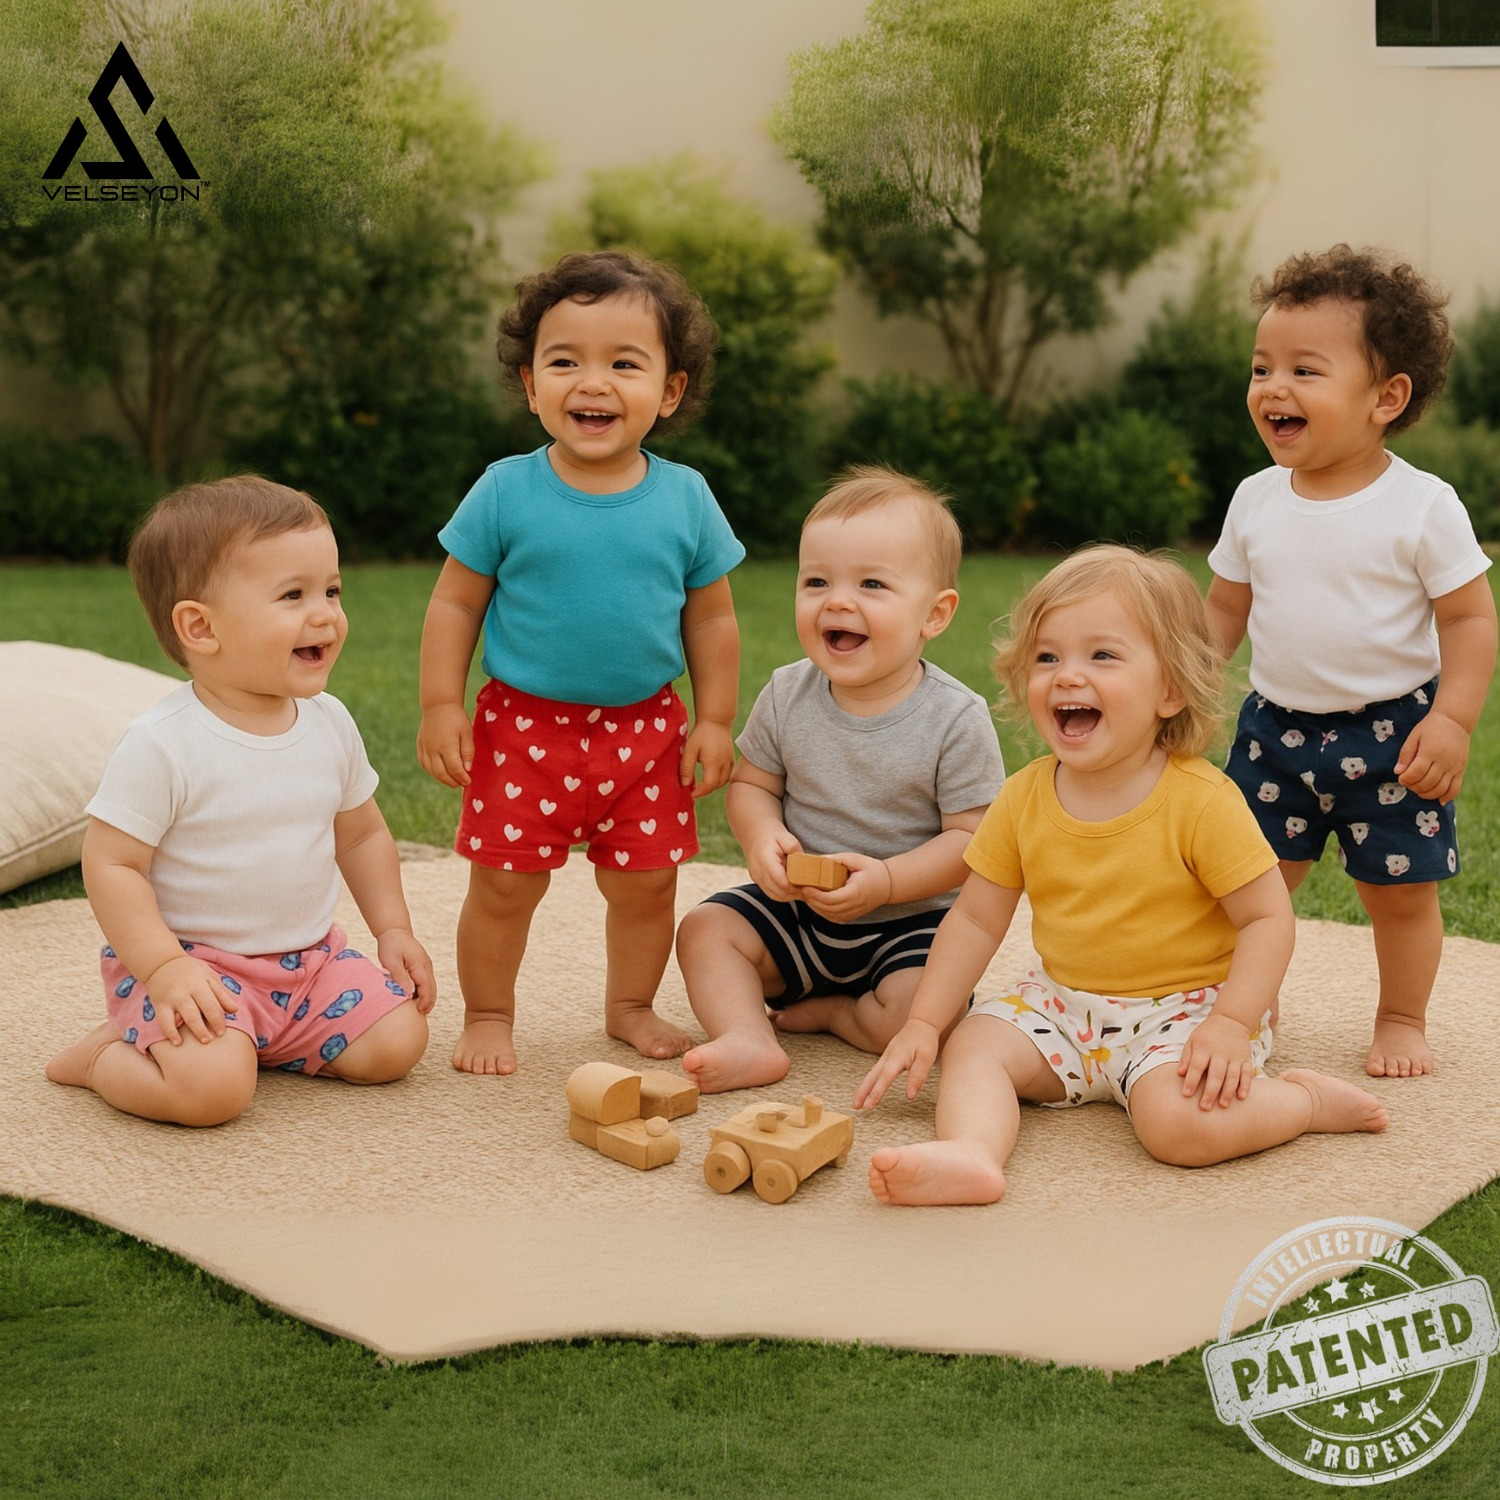
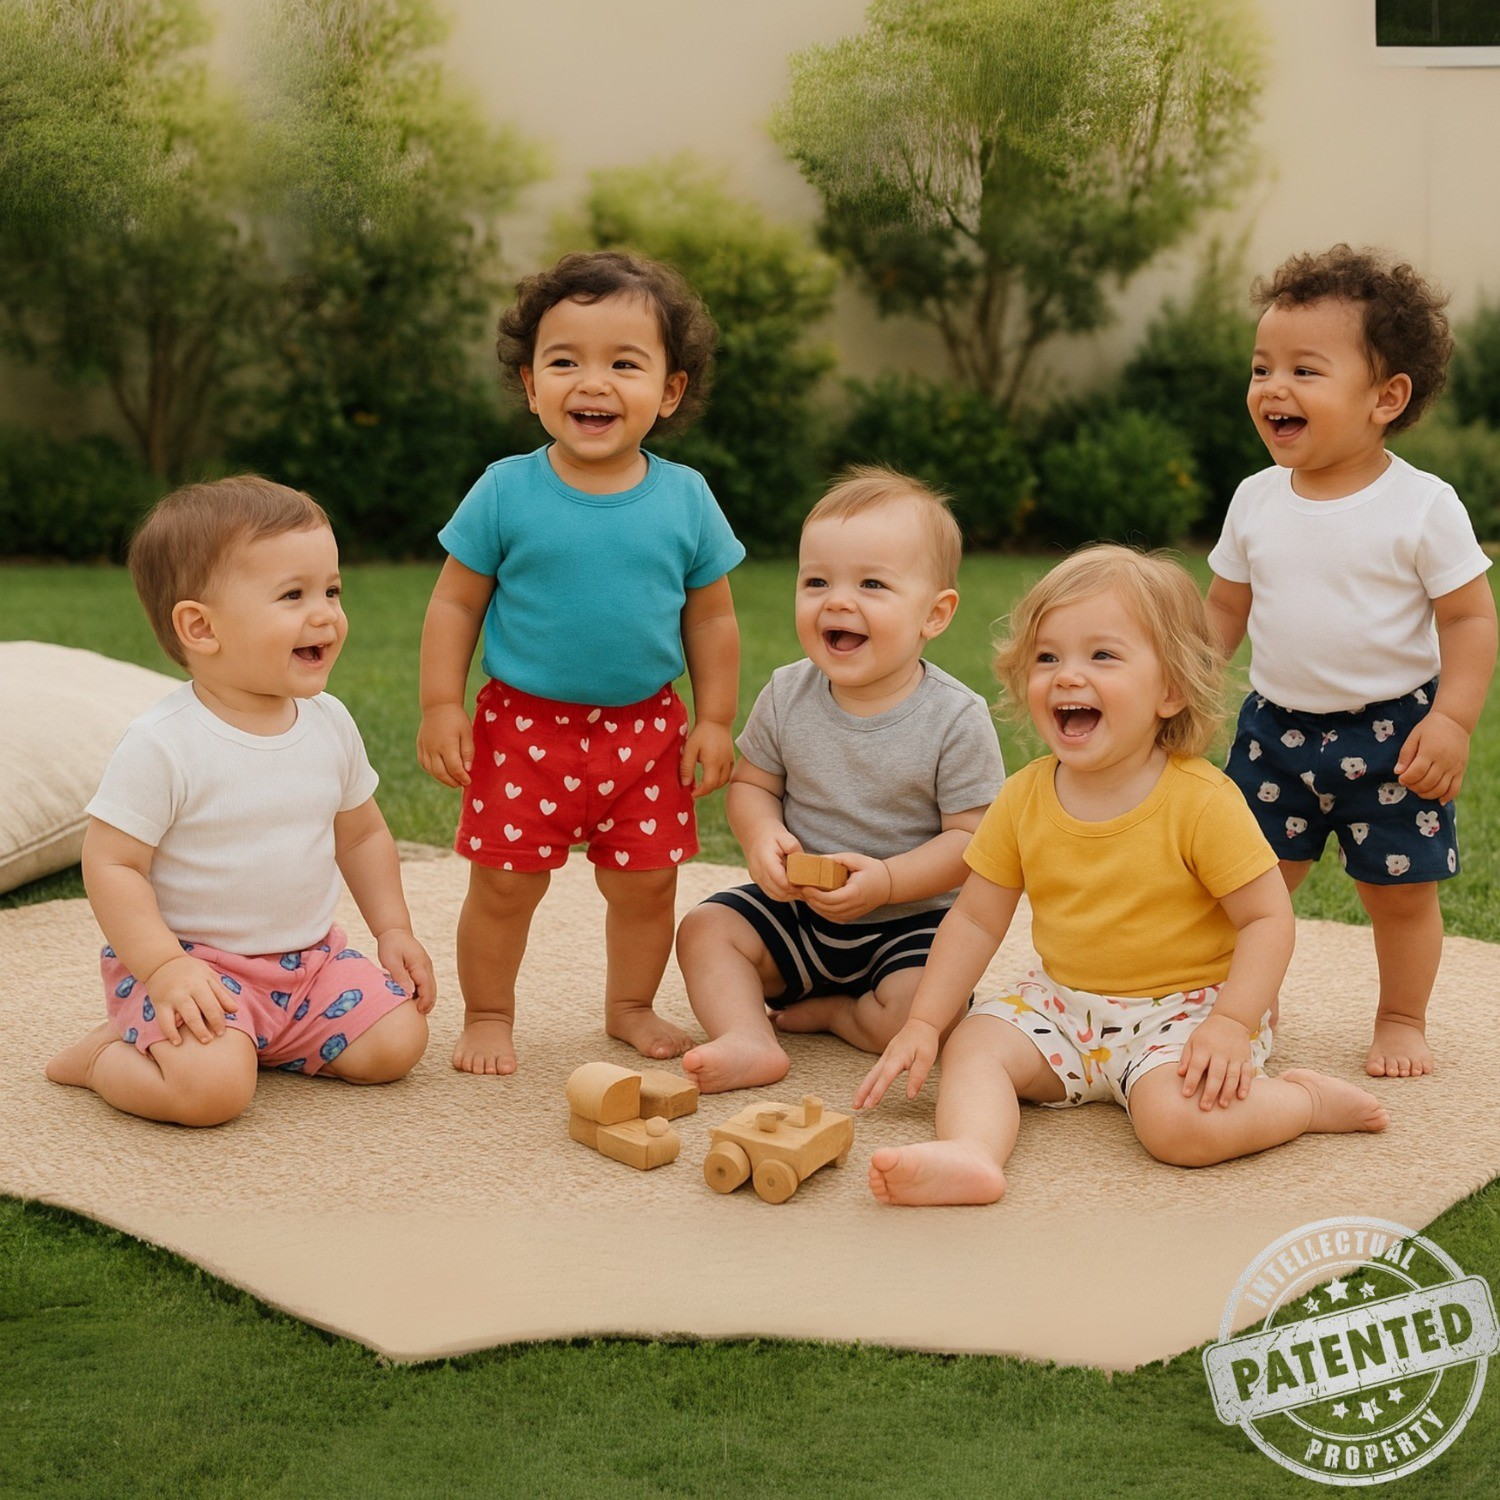
Update homepage background and product image

Changed region(s): [[0.0, 0.0, 0.2147, 0.2147]]

diff --git a/HOME PAGE.html b/HOME PAGE.html
@@ -15,7 +15,7 @@
                 <img src="Photos/VELSEYON Logo.png" alt="VELSEYON Logo">
             </a>
             <ul>
-                <li><a href="#home" class="active">Home</a></li>
+                <li><a href="#home"class="active">Home</a></li>
                 <li><a href="#shop">Shop</a></li>
                 <li><a href="#about">About</a></li>
                 <li><a href="#contact">Contact</a></li>
@@ -42,7 +42,7 @@
             <section class="product-grid" aria-label="Products">
                 <article class="product-card" data-product-card>
                     <div class="product-gallery" data-gallery>
-                        <img class="product-image is-active" src="Photos/baby shorts 2.jpeg" alt="Baby Shorts 2" loading="lazy">
+                        <img class="product-image is-active" src="Photos/baby shorts 1.jpeg" alt="Baby Shorts 1" loading="lazy">
                         <img class="product-image" src="Photos/baby shorts 3.jpeg" alt="Baby Shorts 3 style view" loading="lazy">
                         <img class="product-image" src="Photos/baby shorts 4.jpeg" alt="Baby Shorts 4 style view" loading="lazy">
                         <button class="gallery-arrow gallery-prev" type="button" data-gallery-prev aria-label="Previous Baby Shorts 2 photo">‹</button>

diff --git a/STYLE.css b/STYLE.css
@@ -51,9 +51,10 @@ body.page-exit {
     }
 }
 body.home-page {
-    background-image: url("Photos/dress.jpg");
-    background-size: cover;
-    background-position: center;
+    background-color: #a8b88d;
+    background-image: linear-gradient(rgba(255, 250, 246, .15), rgba(255, 250, 246, .22)), url("Photos/baby shorts 1.jpeg");
+    background-size:cover;
+    background-position: center top;
     background-attachment: fixed;
     background-repeat: no-repeat;
 }
@@ -613,7 +614,8 @@ body.home-page .home-cta {
     flex-direction: column;
     justify-content: center;
     align-items: center;
-    background: #fff;
+    background: rgba(255, 255, 255, 0.26);
+    backdrop-filter: blur(2px);
     scroll-margin-top: 80px;
 }
 .shop-page {
